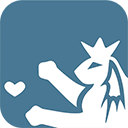
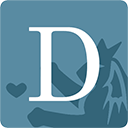
nyt design

diff --git a/js/autocomplete.js b/js/autocomplete.js
@@ -1,7 +1,7 @@
 var soegetekst = $('#soegetekst');
 
 $(soegetekst).keyup(function(event) {
-    $.getJSON('http://ordnet.dk/ws/ddo/livesearch?text=' + soegetekst.val() + '&size=10', function(response) {
+        $.getJSON('http://ordnet.dk/ws/ddo/livesearch', {text: soegetekst.val(), size: 10}, function(response) {
         soegetekst.autocomplete({
           source: response,
           autoFocus: true,

diff --git a/js/popup.js b/js/popup.js
@@ -1,5 +1,5 @@
-var ordnet = angular.module('ordnet', ['ngSanitize']);
-ordnet.controller('OrdController', function($scope) {
+var ordbog = angular.module('ordbog', ['ngSanitize']);
+ordbog.controller('OrdController', function($scope) {
     $scope.initialiser = function() {
         $scope.manifest = chrome.runtime.getManifest();
         $scope.background = {

diff --git a/popup.html b/popup.html
@@ -1,5 +1,5 @@
 <!DOCTYPE html>
-<html data-ng-app="ordnet" data-ng-controller="OrdController">
+<html data-ng-app="ordbog" data-ng-controller="OrdController">
 <head>
 	<meta charset="utf-8">
 	<link rel="stylesheet" href="css/bootstrap.min.css">

diff --git a/README.md b/README.md
@@ -1,5 +1,5 @@
-# ordnet.dk - dansk ordbog
-Foretag hurtige opslag i ordnets.dk danske ordbog. Opslag kan foretages enten ved at klikke på det lille ikon i højre hjørne af browseren for derefter at indtaste det pågældende ord, som der ønskes en definition af.
+# Den Danske Ordbog
+Foretag hurtige opslag i ordnet.dk Den Danske Ordbog. Opslag i ordbogen kan foretages enten ved at klikke på det lille ikon i højre hjørne af browseren for derefter at indtaste det pågældende ord, som der ønskes en definition af.
 
 Alternativt kan et opslag ligeledes også udføres ved at markere et givent ord i browseren og dernæst højreklikke på ordet og slå ordet op derigennem. 
 
@@ -8,4 +8,4 @@ Ydermere kan udvidelsen åbnes ved at trykke **Ctrl + Shift + U**.
 Denne udvidelse har ingen tilknytning til [ordnet.dk](http://ordnet.dk/ddo).
 
 # Installation
-[Chrome Webshop - ordnet.dk - dansk ordbog](https://chrome.google.com/webstore/detail/dbpdoikeilkcgfhlihaajhlkiflfhopc) - alternativt klon dette repository og indlæs udvidelsen manuelt under `chrome://extensions/`.
+[Chrome Webshop - Den Danske Ordbog](https://chrome.google.com/webstore/detail/dbpdoikeilkcgfhlihaajhlkiflfhopc) - alternativt klon dette repository og indlæs udvidelsen manuelt under `chrome://extensions/`.
